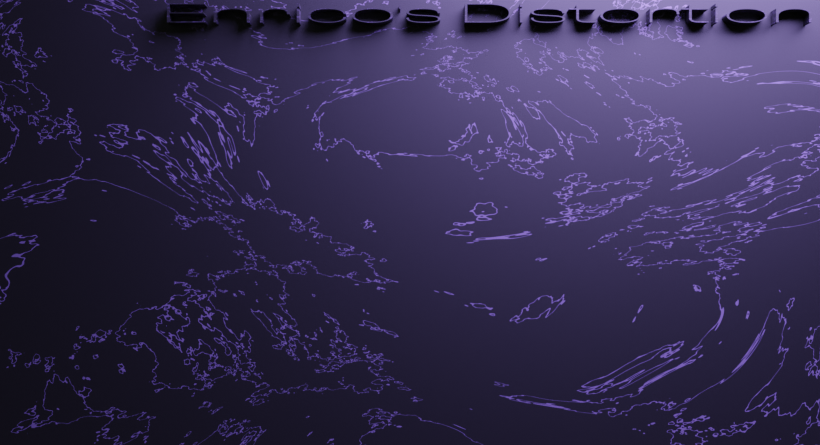
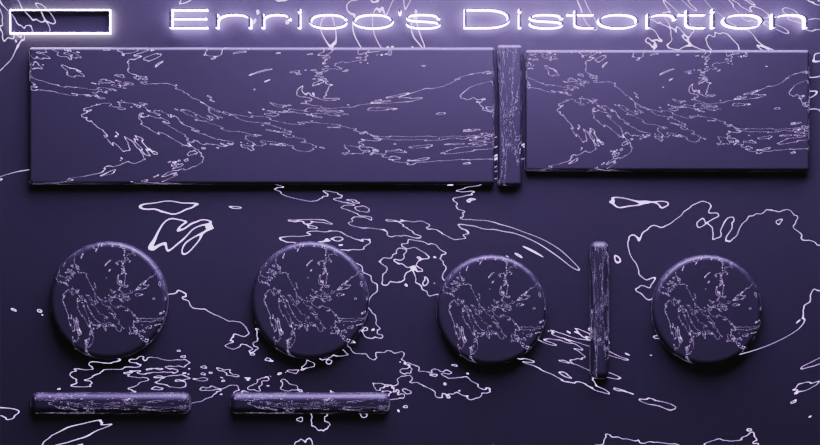
new bg image

diff --git a/Source/PluginEditor.cpp b/Source/PluginEditor.cpp
@@ -235,7 +235,7 @@ void LookAndFeel::drawLinearSlider(juce::Graphics& g,
 
     //draw box
     g.setColour(Colour(27u, 19u, 37u));
-    g.fillRoundedRectangle(bounds, 2.f);
+    g.fillRoundedRectangle(bounds, 10.f);
 
     //draw outline of box
     g.setColour(Colour(209u, 224u, 248u));
@@ -702,7 +702,9 @@ void ResponseCurveComponent::resized()
     Graphics g(background);
 
     g.setColour(juce::Colours::black);
+    //g.setOpacity(0.5f);
     g.fillRoundedRectangle(getRenderArea().toFloat(), 4.f);
+    g.setOpacity(1.f);
 
     Array<float> mainFreqs
     {
@@ -970,8 +972,10 @@ void CourseworkPluginAudioProcessorEditor::paint(juce::Graphics& g)
 
     //draw lines for waveform visualiser
     g.setColour(Colours::black);
+    //g.setOpacity(0.5f);
     g.fillRoundedRectangle(waveformBounds.toFloat(), 4.f);
     g.setColour(Colours::lavender);
+    g.setOpacity(1.f);
     g.drawRoundedRectangle(waveformBounds.toFloat(), 4.f, 1.f);
     g.setColour(Colours::grey);
     g.drawHorizontalLine(59, waveformArea.getX(), waveformArea.getRight());
@@ -980,8 +984,10 @@ void CourseworkPluginAudioProcessorEditor::paint(juce::Graphics& g)
     //outline for the level meters
     auto meterOutline = meterArea.withSizeKeepingCentre(meterArea.getWidth() - 6, meterArea.getHeight());
     g.setColour(Colours::black);
+    //g.setOpacity(0.5f);
     g.fillRoundedRectangle(meterOutline.withTrimmedTop(10).toFloat(), 4.f);
     g.setColour(Colours::lavender);
+    g.setOpacity(1.f);
     g.drawRoundedRectangle(meterOutline.removeFromBottom(meterOutline.getHeight() - 10).toFloat(), 4.f, 1.f);
 
     //outline of the plugin
